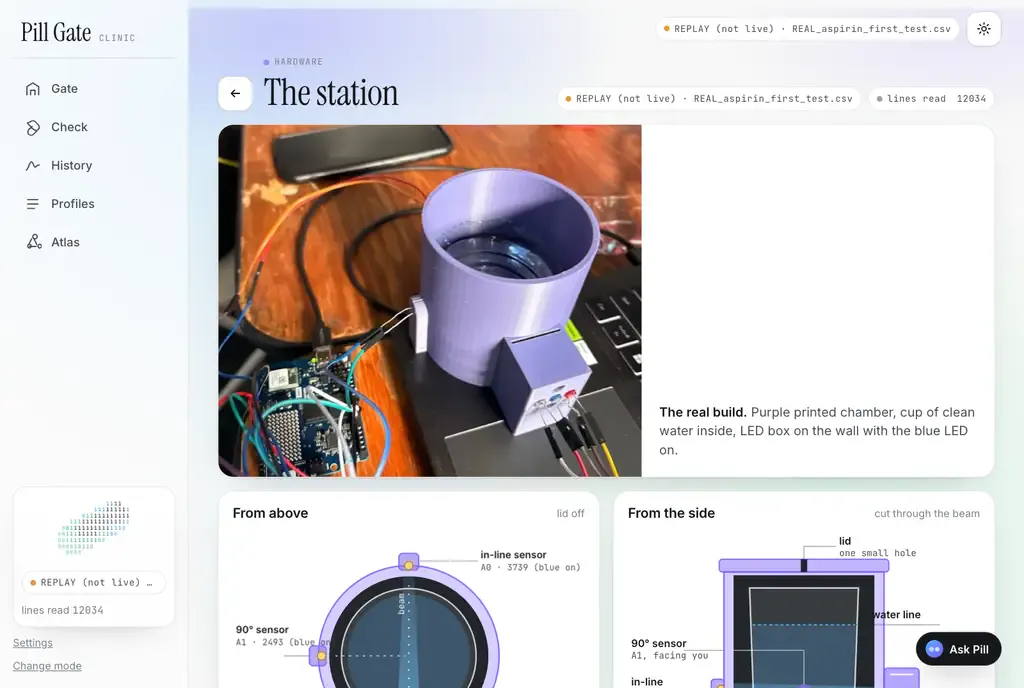
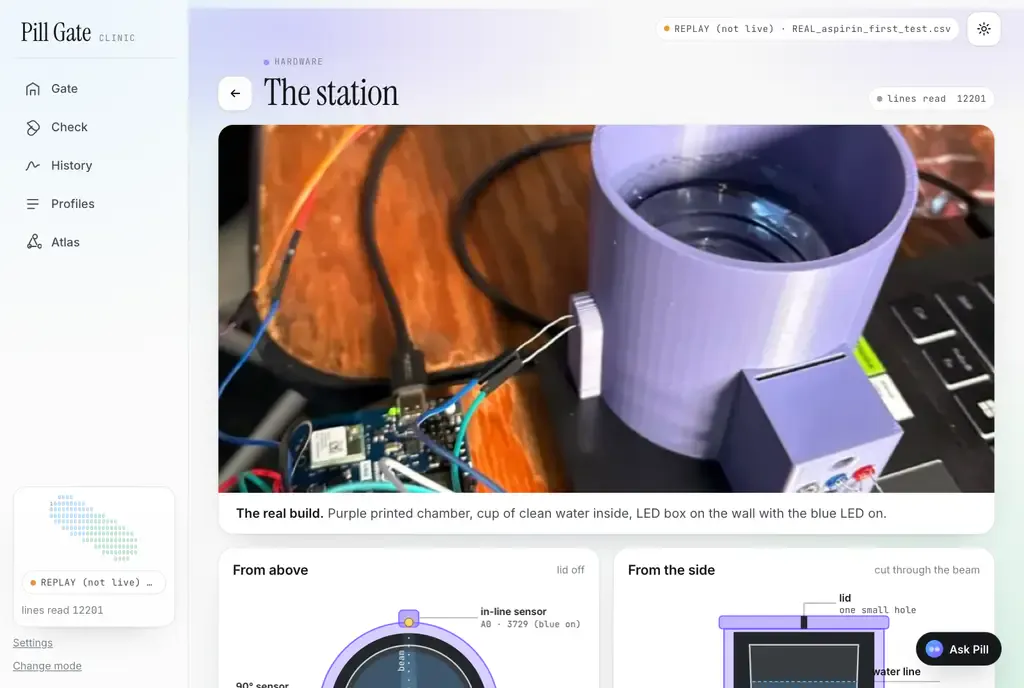
pillgate ui: station hero photo spans the card with the caption bar under it; one device chip (top bar only)

diff --git a/pillgate/app/static/app.js b/pillgate/app/static/app.js
@@ -1463,7 +1463,7 @@ route(/^\/station$/, (v) => {
     ["cup", "Cup of water", "A clear plastic cup of clean water fills the beam. The station checks the water is steady before the tablet goes in."],
     ["station", "Lid", "Flat, with one small hole. Closed, it keeps the inside dark; lift it only to drop the tablet in and stir."],
   ];
-  v.innerHTML = `${head({ eyebrow: "Hardware", title: "The station", tone: "violet", back: "#/", side: `<div class="row wrap" style="gap:8px">${deviceChip()}<span class="chip"><span class="dot"></span>lines read&nbsp;<span class="mono" data-lines>–</span></span></div>` })}
+  v.innerHTML = `${head({ eyebrow: "Hardware", title: "The station", tone: "violet", back: "#/", side: `<span class="chip"><span class="dot"></span>lines read&nbsp;<span class="mono" data-lines>–</span></span>` })}
     <figure class="card st-hero rise"><img src="/static/photos/station-19.webp" alt="The real station: a purple printed chamber with a cup of water inside, the LED box on its side with the blue LED lit, wired to the board" width="1067" height="1172">
       <figcaption><b>The real build.</b> Purple printed chamber, cup of clean water inside, LED box on the wall with the blue LED on.</figcaption></figure>
     <div class="wide-2">

diff --git a/pillgate/app/static/style.css b/pillgate/app/static/style.css
@@ -488,7 +488,7 @@ body.easy .chip { border-color: var(--line-2); }
 .st-hero img { width: 100%; height: auto; max-height: 520px; object-fit: cover; object-position: 50% 62%; display: block; }
 .st-hero figcaption { padding: 12px 16px; font-size: 14px; color: var(--ink-2); }
 .st-hero figcaption b { color: var(--ink); }
-@media (min-width: 900px) { .st-hero { grid-template-columns: minmax(0, 1.2fr) minmax(0, 1fr); align-items: end; } .st-hero img { max-height: 440px; } .st-hero figcaption { padding: 22px; font-size: 16px; } }
+@media (min-width: 900px) { .st-hero img { max-height: 460px; object-position: 50% 74%; } .st-hero figcaption { padding: 14px 22px; font-size: 16px; } }
 .parts { list-style: none; margin: 0; padding: 0; display: grid; gap: 4px; }
 @media (min-width: 900px) { .parts { grid-template-columns: repeat(2, minmax(0, 1fr)); column-gap: 24px; } }
 .parts li { display: grid; grid-template-columns: 44px minmax(0, 1fr); gap: 12px; align-items: start; padding: 10px 0; border-top: 1px solid var(--line); }

diff --git a/pillgate/app/static/index.html b/pillgate/app/static/index.html
@@ -7,8 +7,8 @@
 <title>Pill Gate</title>
 <link rel="preload" href="/static/fonts/instrument-serif-400.woff2" as="font" type="font/woff2" crossorigin>
 <link rel="preload" href="/static/fonts/inter-400.woff2" as="font" type="font/woff2" crossorigin>
-<link rel="stylesheet" href="/static/design.css?v=ui005012">
-<link rel="stylesheet" href="/static/style.css?v=ui005012">
+<link rel="stylesheet" href="/static/design.css?v=ui005126">
+<link rel="stylesheet" href="/static/style.css?v=ui005126">
 <script src="/static/vendor/chart-4.5.0.umd.min.js" defer></script>
 </head>
 <body data-mode="">
@@ -29,7 +29,7 @@
     <main id="view" class="page" tabindex="-1"></main>
   </div>
 </div>
-<script src="/static/flow.js?v=ui005012" defer></script>
-<script src="/static/app.js?v=ui005012" defer></script>
+<script src="/static/flow.js?v=ui005126" defer></script>
+<script src="/static/app.js?v=ui005126" defer></script>
 </body>
 </html>
